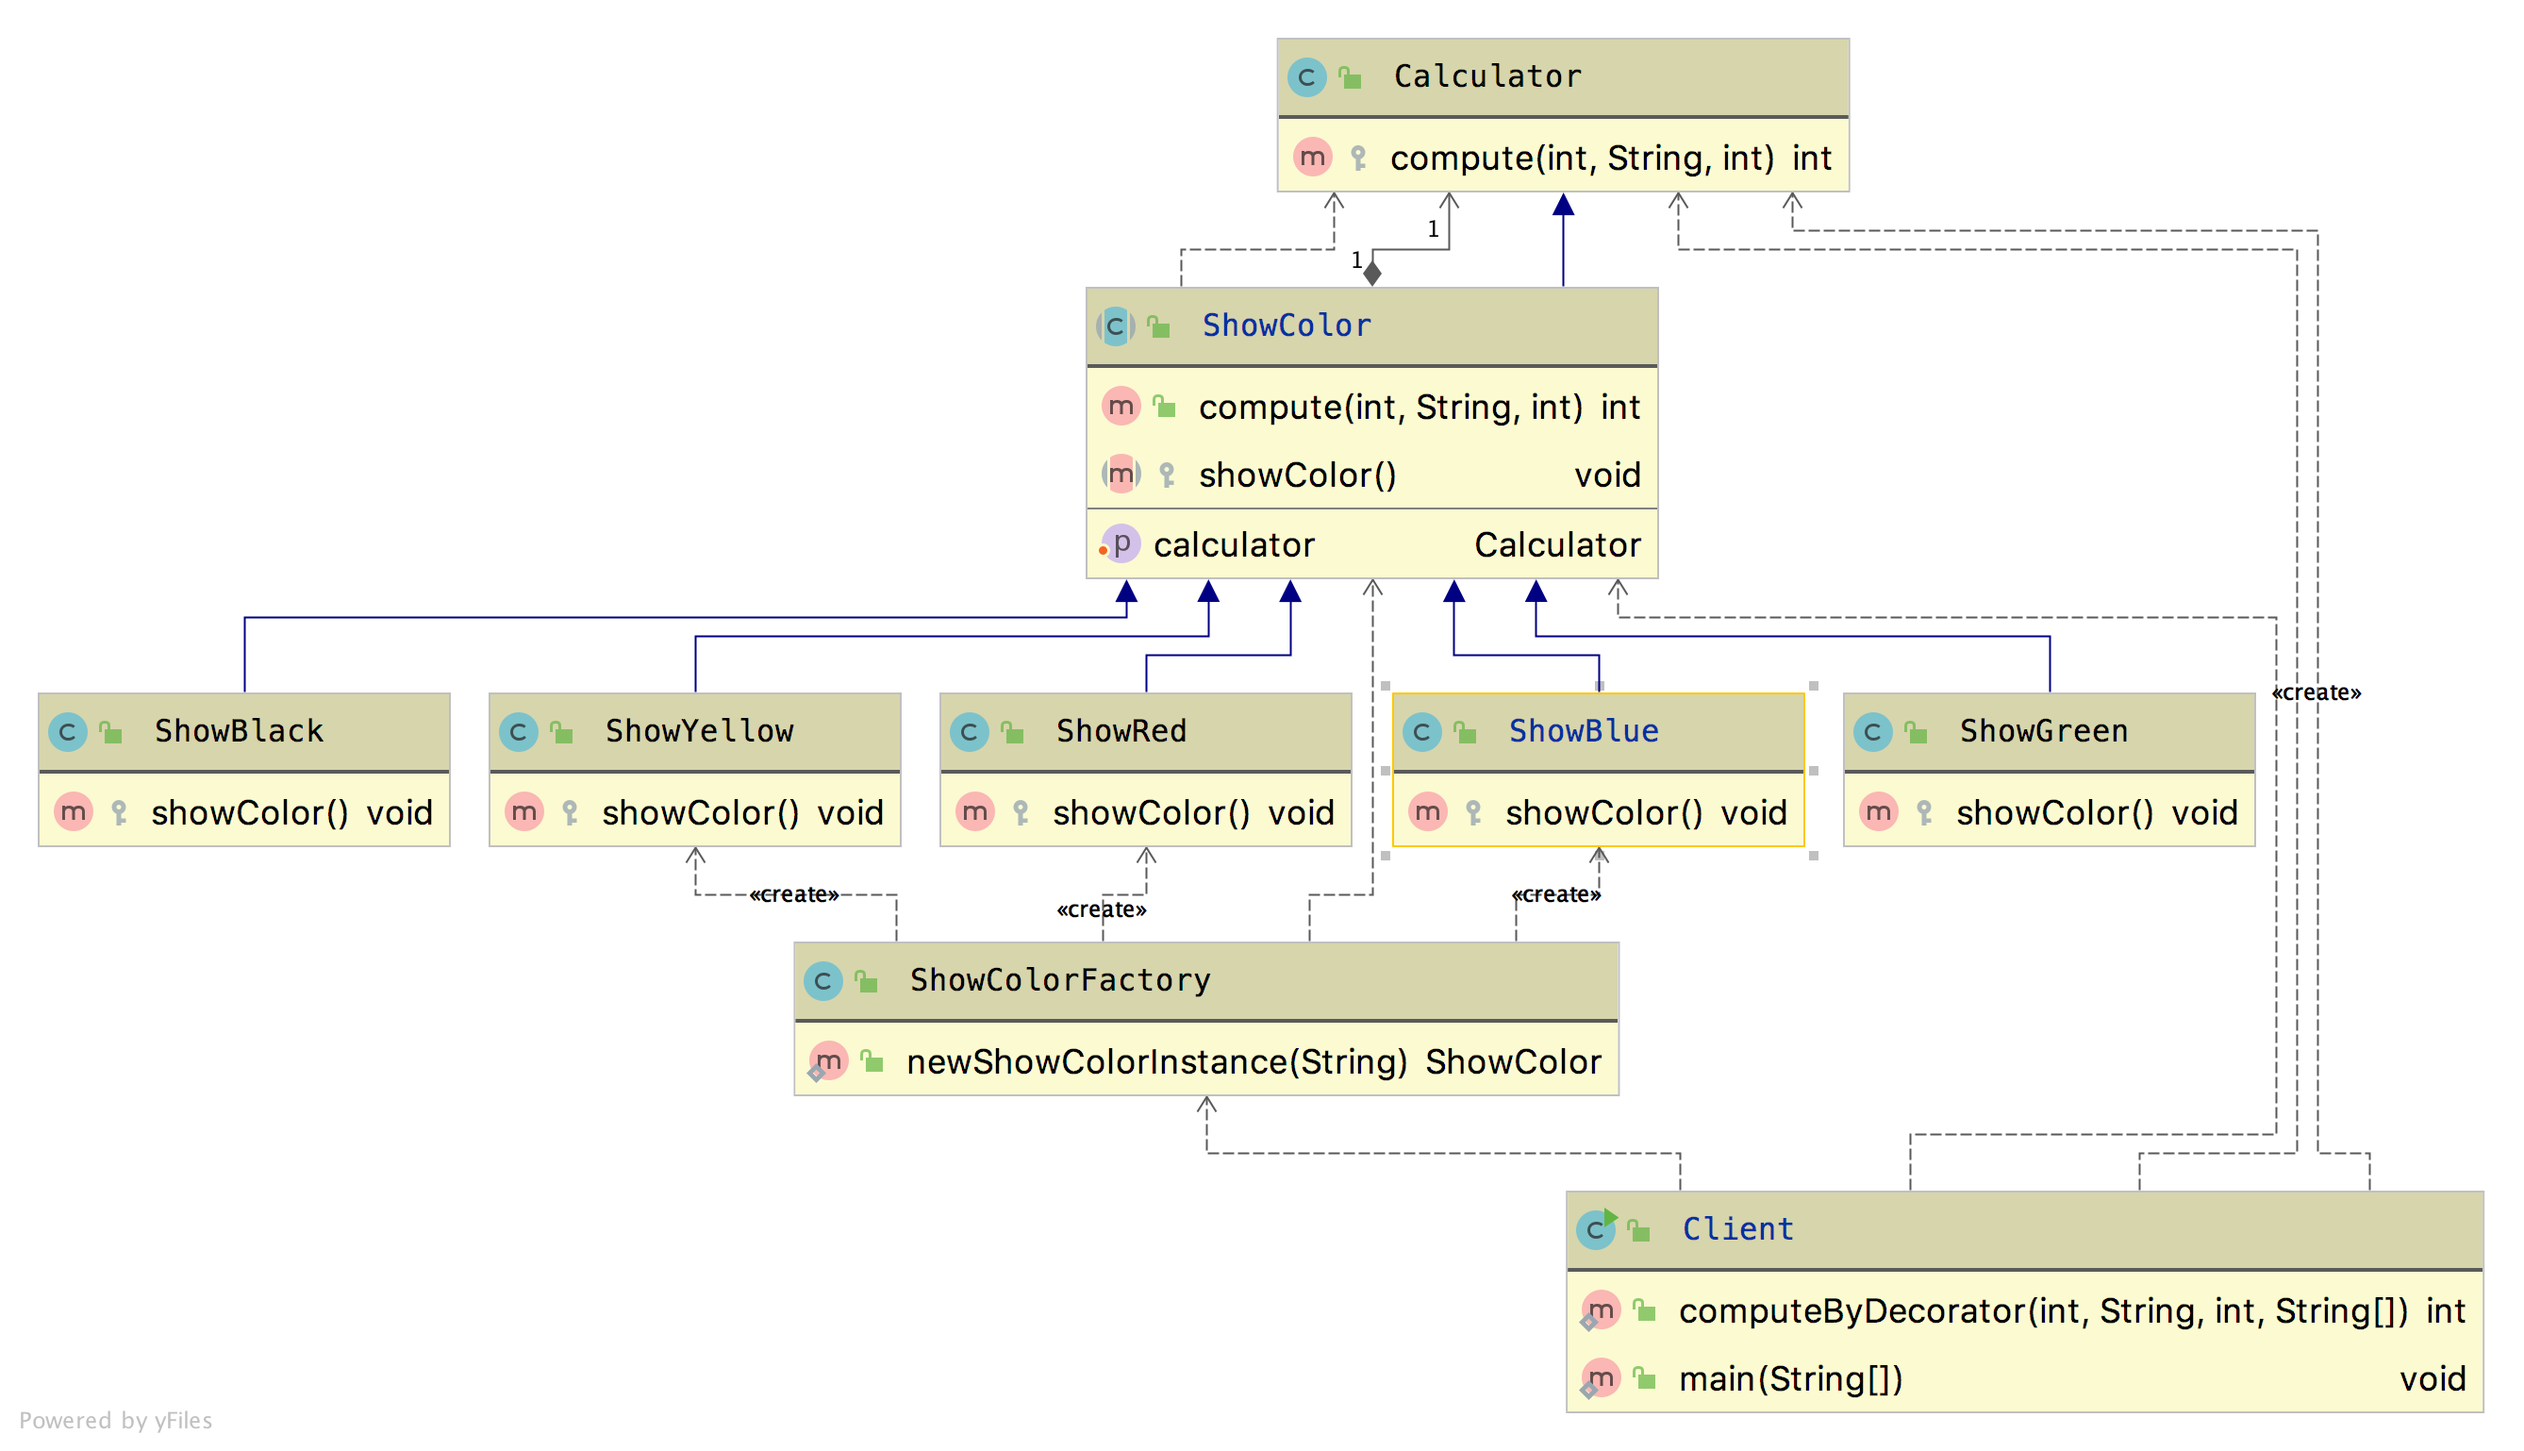
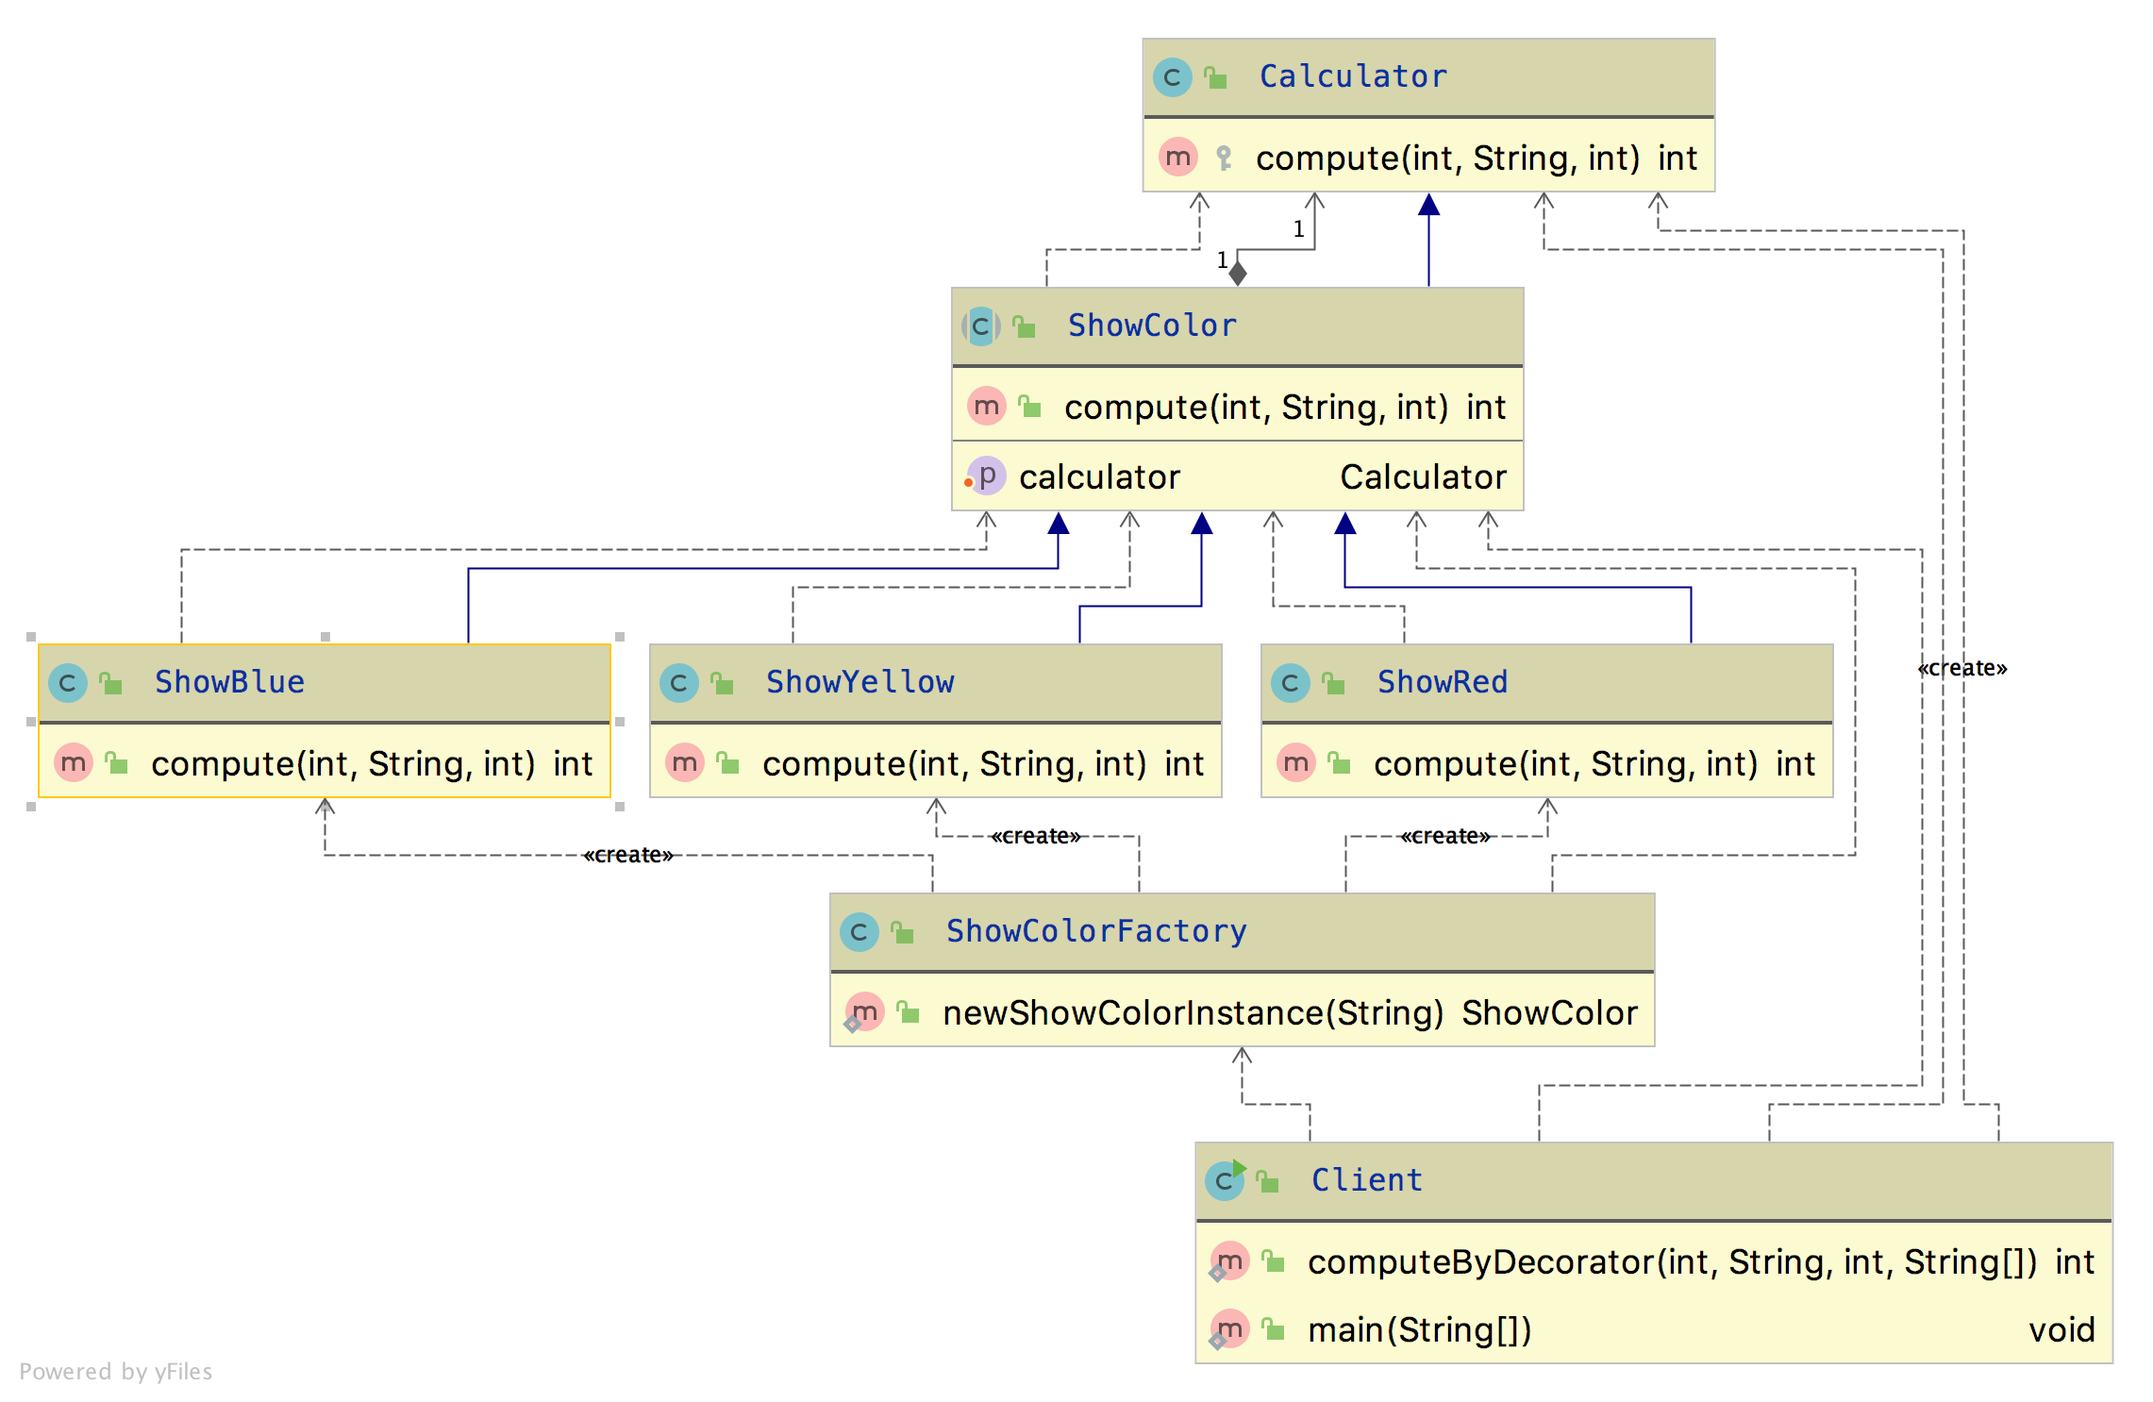
装饰模式、模板方法模式

Changed region(s): [[0.0, 0.0, 0.9956, 0.9906], [0.0, 0.9596, 0.0933, 0.9906]]

diff --git a/src/main/java/com/pxy/designpattern/prototype/Client.java b/src/main/java/com/pxy/designpattern/prototype/Client.java
@@ -58,6 +58,12 @@ public class Client {
     }
 
     public static void main(String[] args) throws CloneNotSupportedException {
-        System.out.println(generateThreeCalculatorsByClone().size());
+        List<Calculator> calculators = generateThreeCalculatorsByClone();
+        System.out.println("第1个计算器的价格："+calculators.get(0).getPrice());
+        System.out.println("第1个计算器的品牌名："+calculators.get(0).getBrand().getName());
+        System.out.println("第2个计算器的价格："+calculators.get(1).getPrice());
+        System.out.println("第2个计算器的品牌名："+calculators.get(1).getBrand().getName());
+        System.out.println("第3个计算器的价格："+calculators.get(2).getPrice());
+        System.out.println("第3个计算器的品牌名："+calculators.get(2).getBrand().getName());
     }
 }

diff --git a/src/main/java/com/pxy/designpattern/templateMethod/Calculator.java b/src/main/java/com/pxy/designpattern/templateMethod/Calculator.java
@@ -1,0 +1,23 @@
+package com.pxy.designpattern.templateMethod;
+
+public class Calculator{
+
+    protected int compute(int num1, String operator, int num2) throws Exception {
+        switch (operator) {
+            case "+":
+                return num1+num2;
+            case "-":
+                return num1-num2;
+            case "*":
+                return num1*num2;
+            case "/":
+                if (num2 == 0) {
+                    throw new Exception("除数不能为0");
+                } else {
+                    return num1/num2;
+                }
+            default:
+                throw new Exception("运算符输入错误!");
+        }
+    }
+}

diff --git a/src/main/java/com/pxy/designpattern/templateMethod/ShowColor.java b/src/main/java/com/pxy/designpattern/templateMethod/ShowColor.java
@@ -1,4 +1,4 @@
-package com.pxy.designpattern.decorator;
+package com.pxy.designpattern.templateMethod;
 
 public abstract class ShowColor extends Calculator {
     protected Calculator calculator;
@@ -8,9 +8,11 @@ public abstract class ShowColor extends Calculator {
     @Override
     public int compute(int num1, String operator, int num2) throws Exception {
         if (calculator != null) {
+            showColor();
             return calculator.compute(num1, operator,num2);
         } else {
             throw new Exception("不能调用空对象的方法！");
         }
-    }
+    };
+    protected abstract void showColor();
 }

diff --git a/src/main/java/com/pxy/designpattern/decorator/ShowRed.java b/src/main/java/com/pxy/designpattern/decorator/ShowRed.java
@@ -2,8 +2,16 @@ package com.pxy.designpattern.decorator;
 
 public class ShowRed extends ShowColor {
     @Override
-    protected void showColor() {
-        System.out.println("red!");
+    public int compute(int num1, String operator, int num2) throws Exception {
+        if (calculator != null) {
+            showRed();
+            return calculator.compute(num1, operator,num2);
+        } else {
+            throw new Exception("不能调用空对象的方法！");
+        }
+    };
+    private void showRed() {
+        System.out.println("show red!");
         System.out.println("hahaha!");
     }
 }

diff --git a/src/main/java/com/pxy/designpattern/decorator/ShowYellow.java b/src/main/java/com/pxy/designpattern/decorator/ShowYellow.java
@@ -2,7 +2,15 @@ package com.pxy.designpattern.decorator;
 
 public class ShowYellow extends ShowColor {
     @Override
-    protected void showColor() {
-        System.out.println("yellow!");
+    public int compute(int num1, String operator, int num2) throws Exception {
+        if (calculator != null) {
+            showYellow();
+            return calculator.compute(num1, operator,num2);
+        } else {
+            throw new Exception("不能调用空对象的方法！");
+        }
+    };
+    private void showYellow() {
+        System.out.println("show yellow!");
     }
 }

diff --git a/src/main/java/com/pxy/designpattern/decorator/ShowBlue.java b/src/main/java/com/pxy/designpattern/decorator/ShowBlue.java
@@ -2,7 +2,15 @@ package com.pxy.designpattern.decorator;
 
 public class ShowBlue extends ShowColor {
     @Override
-    protected void showColor() {
-        System.out.println("Blue!");
+    public int compute(int num1, String operator, int num2) throws Exception {
+        if (calculator != null) {
+            showBlue();
+            return calculator.compute(num1, operator,num2);
+        } else {
+            throw new Exception("不能调用空对象的方法！");
+        }
+    };
+    private void showBlue() {
+        System.out.println("show blue!");
     }
 }

diff --git a/src/main/java/com/pxy/designpattern/templateMethod/ShowColorFactory.java b/src/main/java/com/pxy/designpattern/templateMethod/ShowColorFactory.java
@@ -1,0 +1,16 @@
+package com.pxy.designpattern.templateMethod;
+
+public class ShowColorFactory {
+    public static ShowColor newShowColorInstance(String color) throws Exception {
+        switch (color) {
+            case "red":
+                return new ShowRed();
+            case "yellow":
+                return new ShowYellow();
+            case "blue":
+                return new ShowBlue();
+            default:
+                throw new Exception("颜色输入错误!");
+        }
+    }
+}

diff --git a/src/main/java/com/pxy/designpattern/abstractfactory/ShowColor.java b/src/main/java/com/pxy/designpattern/abstractfactory/ShowColor.java
@@ -8,14 +8,10 @@ public abstract class ShowColor extends Calculator {
     @Override
     public int compute(int num1, String operator, int num2) throws Exception {
         if (calculator != null) {
-            show();
             return calculator.compute(num1, operator,num2);
         } else {
             throw new Exception("不能调用空对象的方法！");
         }
     };
-    private void show() {
-        System.out.print("show ");
-    }
     protected abstract void showColor();
 }

diff --git a/src/main/java/com/pxy/designpattern/templateMethod/Client.java b/src/main/java/com/pxy/designpattern/templateMethod/Client.java
@@ -1,6 +1,7 @@
-package com.pxy.designpattern.decorator;
+package com.pxy.designpattern.templateMethod;
 
 public class Client {
+
     /**
      * 给计算器计算结果的时候增加打印颜色的功能，使用装饰模式。这样无论要打印多少种颜色和按何种顺序打印，都可由参数colors指定，也不影响原来的计算功能
      */

diff --git a/src/main/java/com/pxy/designpattern/facade/Client.java b/src/main/java/com/pxy/designpattern/facade/Client.java
@@ -1,6 +1,9 @@
 package com.pxy.designpattern.facade;
 
 public class Client {
+    /**
+     * 不使用外观模式组装计算器
+     */
     private static void packageCalculator() {
         Chip chip = new Chip();
         Keyboard keyboard = new Keyboard();

diff --git a/src/main/java/com/pxy/designpattern/templateMethod/ShowRed.java b/src/main/java/com/pxy/designpattern/templateMethod/ShowRed.java
@@ -1,0 +1,9 @@
+package com.pxy.designpattern.templateMethod;
+
+public class ShowRed extends ShowColor {
+    @Override
+    protected void showColor() {
+        System.out.println("red!");
+        System.out.println("hahaha!");
+    }
+}

diff --git a/src/main/java/com/pxy/designpattern/templateMethod/ShowYellow.java b/src/main/java/com/pxy/designpattern/templateMethod/ShowYellow.java
@@ -1,0 +1,8 @@
+package com.pxy.designpattern.templateMethod;
+
+public class ShowYellow extends ShowColor {
+    @Override
+    protected void showColor() {
+        System.out.println("yellow!");
+    }
+}
